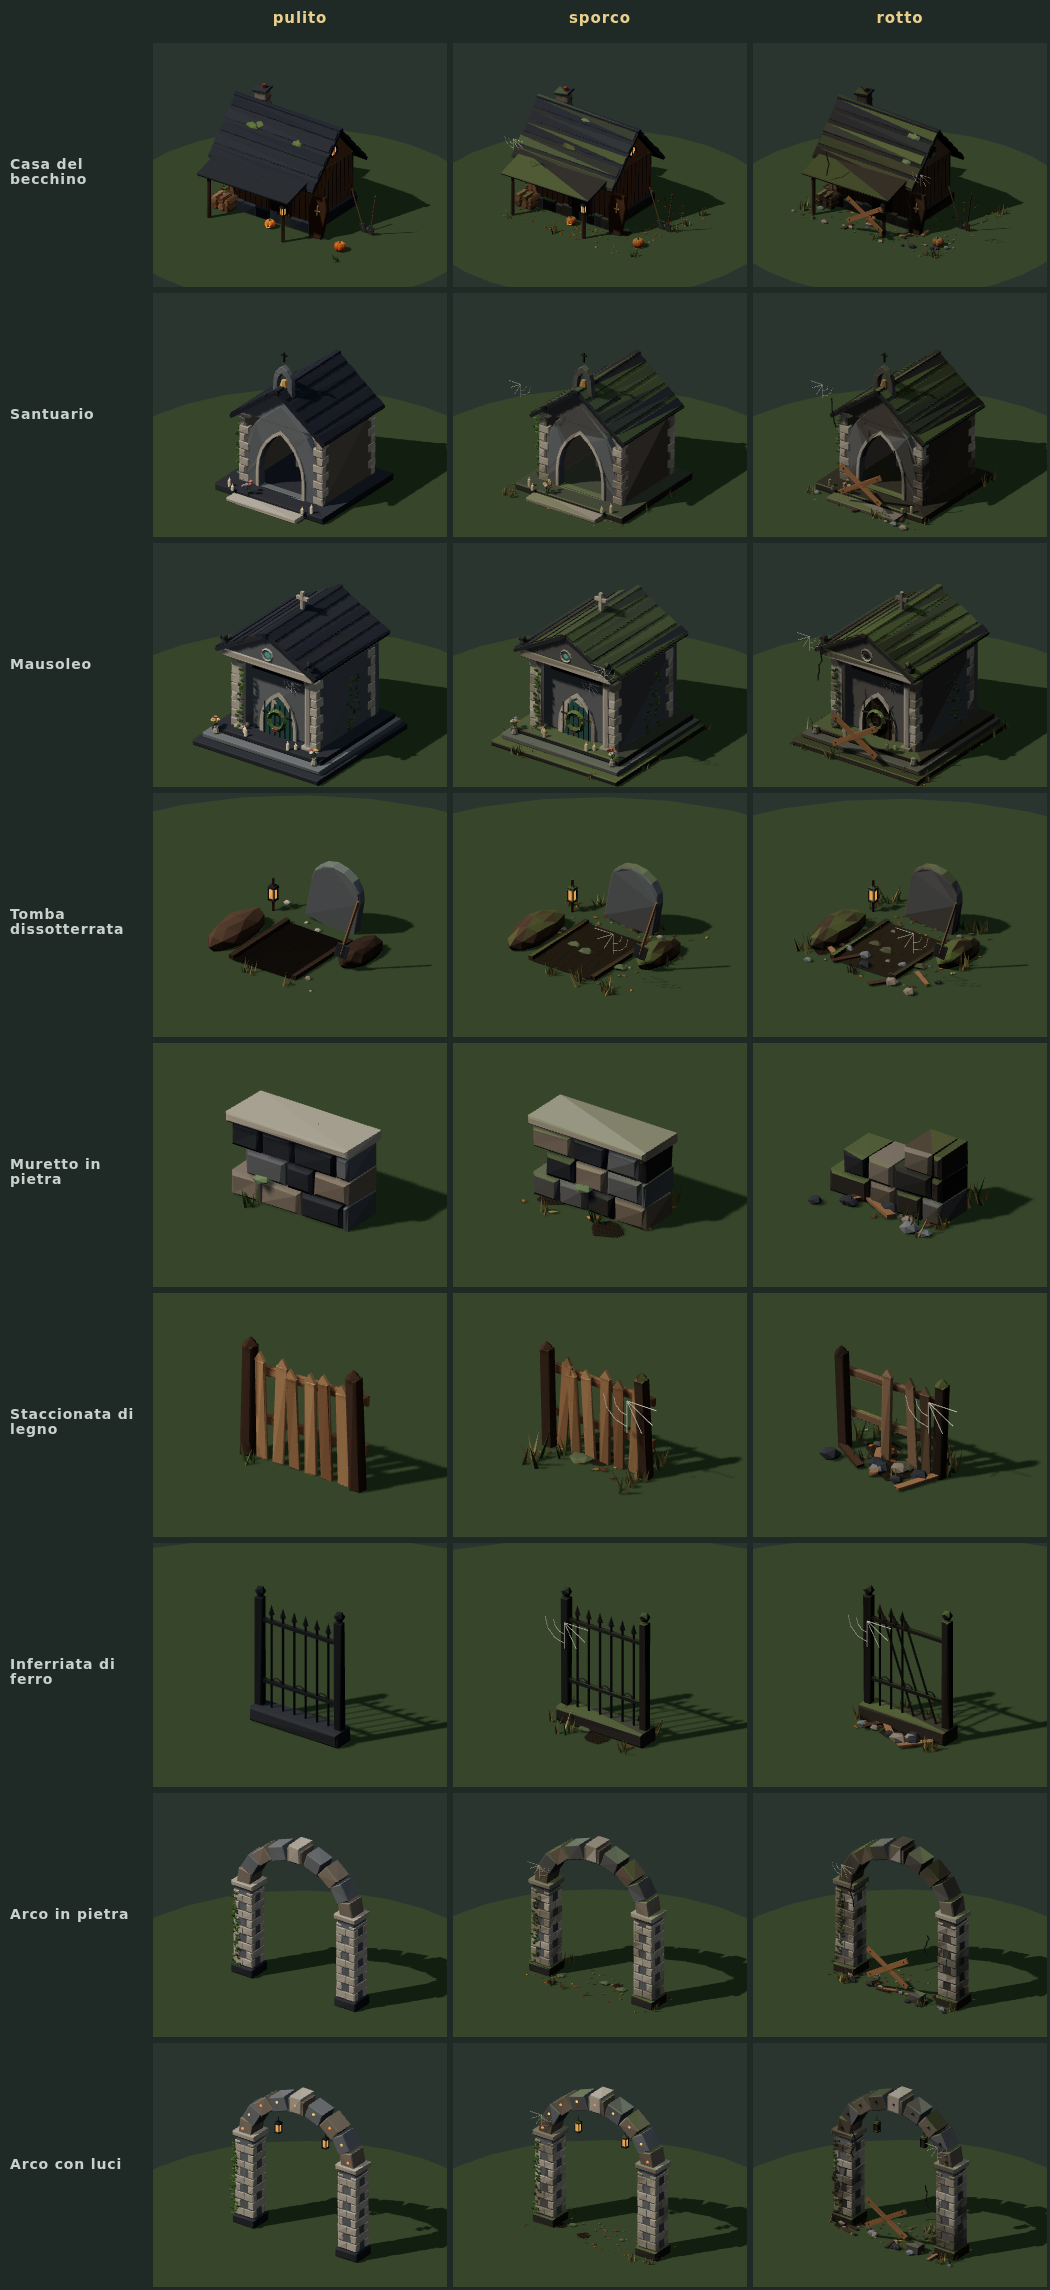
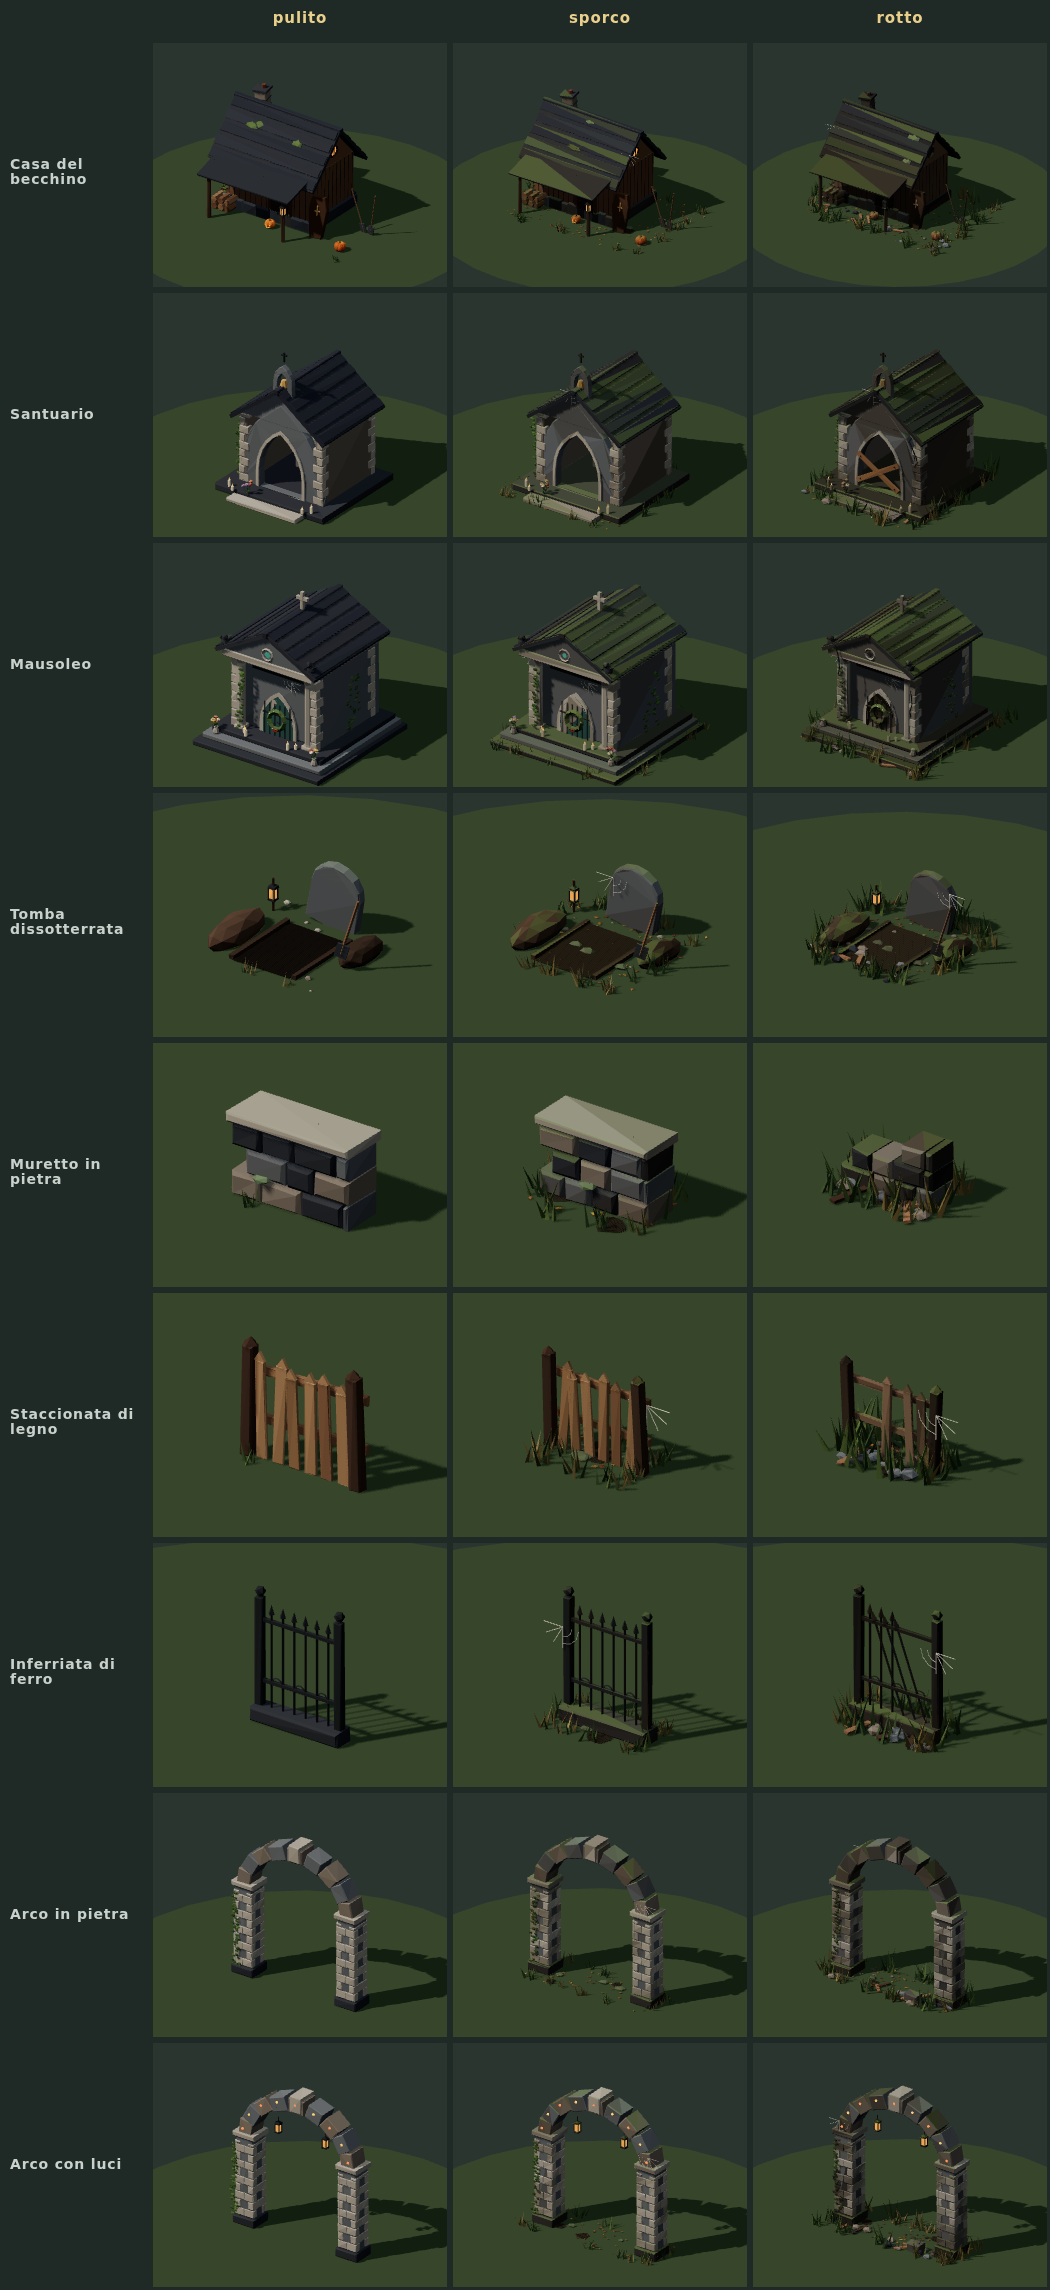
Degrado: ragnatele, crepe e assi agganciate alla superficie vera; erba alta che cresce
Un raggio dal davanti trova il muro: la ragnatela va nell'angolo sotto una
sporgenza (gronda, tenda) o sullo spigolo, le crepe sul muro, le assi a
croce solo se i due lati sono sullo stesso piano (altrimenti niente).
Attorno agli oggetti sporchi cresce erba alta, più fitta e alta da rotti.

Claude-Session: https://claude.ai/code/session_01U6u5RojYrwYjZd8sSRU7em

diff --git a/Prototype-3d/src/render/lowpoly/weathering.ts b/Prototype-3d/src/render/lowpoly/weathering.ts
@@ -112,10 +112,48 @@ export function weathered(m: LPModel, v: PVis, fp: [number, number], category: P
     lp.push([cx + r.range(-hx, hx) * 0.8, 0.004, cz + r.range(-hz, hz) * 0.8], r.range(0, 6), -Math.PI / 2)
       .plate(irregularShape(r, 0.1 + r.next() * 0.08, 7), 0.004, '#2f2a22', { ao: 0, vary: 0.08 }).pop();
   }
+  // erba alta che cresce attorno all'oggetto trascurato (più fitta e più alta da rotto)
+  const ring = Math.round((path ? 4 : 6) + (hx + hz) * (v.broken ? 5 : 3));
+  for (let i = 0; i < ring; i++) {
+    const a = (i / ring) * Math.PI * 2 + r.range(-0.2, 0.2);
+    const k = Math.min(1 / Math.abs(Math.cos(a)), 1 / Math.abs(Math.sin(a)));
+    const out = r.range(0.85, 1.02);
+    const x = cx + Math.cos(a) * k * hx * out, z = cz + Math.sin(a) * k * hz * out;
+    grassTuft(lp, x, z, (v.broken ? r.range(2.1, 3) : r.range(1.4, 2)) * (path ? 0.7 : 1), r.chance(0.3) ? ['#6b6242', '#7d7048', '#55603a'] : undefined, v.broken ? 9 + r.int(5) : 6 + r.int(4));
+  }
+
+  // per ragnatele, crepe e assi serve la superficie vera: un raggio dal davanti (+z) trova il muro
+  const solid = m.geometries.solid;
+  const hit = solid ? new THREE.Mesh(solid, new THREE.MeshBasicMaterial({ side: THREE.DoubleSide })) : null;
+  const ray = new THREE.Raycaster();
+  const back = new THREE.Vector3(0, 0, -1);
+  const wallZ = (x: number, y: number): number | null => {
+    if (!hit) return null;
+    ray.set(new THREE.Vector3(x, y, box.max.z + 1), back);
+    const h = ray.intersectObject(hit, false)[0];
+    return h ? h.point.z : null;
+  };
   const tall = size.y > 0.75 && !path;
-  const front = box.max.z + 0.005;
-  // ragnatela in un angolo in alto sul davanti
-  if (tall && size.x > 0.8) cobweb(lp, box.min.x + size.x * (r.chance(0.5) ? 0.12 : 0.88), box.min.y + size.y * 0.78, front - Math.min(0.1, size.z * 0.2), Math.min(0.28, size.x * 0.3), r.chance(0.5));
+  if (tall && size.x > 0.6) {
+    // ragnatela nell'angolo tra il muro e la sporgenza sopra (gronda, tenda), o sullo spigolo del muro
+    let web: { x: number; y: number; z: number; flip: boolean } | null = null;
+    for (let fy = 0.82; fy >= 0.45 && !web; fy -= 0.06) {
+      for (let fx = 0.12; fx <= 0.88 && !web; fx += 0.08) {
+        const x = box.min.x + size.x * fx, y = box.min.y + size.y * fy;
+        const z = wallZ(x, y), above = wallZ(x, y + 0.12);
+        if (z !== null && above !== null && above > z + 0.1) web = { x, y: y + 0.08, z: z + 0.01, flip: fx > 0.5 };
+      }
+    }
+    if (!web) {
+      const sx = r.chance(0.5) ? -1 : 1, y = box.min.y + size.y * 0.7;
+      for (let k = 0; k < 20 && !web; k++) {
+        const x = cx + sx * (size.x / 2) * (1 - k / 20);
+        const z = wallZ(x, y);
+        if (z !== null) web = { x, y, z: z + 0.01, flip: sx > 0 };
+      }
+    }
+    if (web) cobweb(lp, web.x, web.y, web.z, Math.min(0.26, size.x * 0.22), web.flip);
+  }
   if (v.broken) {
     // macerie: sassi, schegge e assi spezzate davanti
     for (let i = 0; i < 6 + Math.round(hx * 4); i++) {
@@ -127,16 +165,25 @@ export function weathered(m: LPModel, v: PVis, fp: [number, number], category: P
         .box(0, 0, 0, 0.06, 0.025, 0.2 + r.next() * 0.25, r.pick([LPC.wood, LPC.woodDark]), { vary: 0.1 }).pop();
     }
     if (tall && category === 'structure' && size.y > 1.2 && !NO_BOARDS.has(v.type)) {
-      // crepe e due assi inchiodate a croce sul davanti, all'altezza dell'ingresso
-      const zf = front - 0.04;
-      crack(lp, cx - size.x * 0.28, box.min.y + size.y * 0.72, zf, Math.min(0.6, size.y * 0.3));
-      crack(lp, cx + size.x * 0.3, box.min.y + size.y * 0.5, zf, Math.min(0.45, size.y * 0.22));
+      // crepe sul muro vero
+      for (const [fx, fy, len] of [[-0.28, 0.72, 0.3], [0.3, 0.5, 0.22]] as const) {
+        const x = cx + size.x * fx, y = box.min.y + size.y * fy, z = wallZ(x, y);
+        if (z !== null) crack(lp, x, y, z + 0.008, Math.min(0.6, size.y * len));
+      }
+      // due assi a croce inchiodate ai due lati (stipiti, pilastri): solo se entrambi i lati sono sullo stesso piano
       const w = Math.min(size.x * 0.55, 1.1), y = box.min.y + Math.min(size.y * 0.36, 0.6);
-      for (const s of [-1, 1]) {
-        lp.push([cx, y, zf + 0.03], 0, 0, s * 0.55).box(0, -0.05, 0, w, 0.1, 0.03, '#7a5c42', { vary: 0.12, ao: 0 })
-          .box(-w * 0.42, -0.012, 0.02, 0.025, 0.025, 0.01, LPC.iron, { jitter: 0 }).box(w * 0.42, -0.012, 0.02, 0.025, 0.025, 0.01, LPC.iron, { jitter: 0 }).pop();
+      const zl = wallZ(cx - w * 0.45, y - 0.12), zr = wallZ(cx + w * 0.45, y + 0.12), zc = wallZ(cx, y);
+      if (zl !== null && zr !== null && Math.abs(zl - zr) < 0.12) {
+        const zf = Math.max(zl, zr) + 0.03;
+        if (zc === null || zc < zf + 0.03) {
+          for (const s of [-1, 1]) {
+            lp.push([cx, y, zf], 0, 0, s * 0.55).box(0, -0.05, 0, w, 0.1, 0.03, '#7a5c42', { vary: 0.12, ao: 0 })
+              .box(-w * 0.42, -0.012, 0.02, 0.025, 0.025, 0.01, LPC.iron, { jitter: 0 }).box(w * 0.42, -0.012, 0.02, 0.025, 0.025, 0.01, LPC.iron, { jitter: 0 }).pop();
+          }
+        }
       }
     }
   }
+  hit?.material.dispose();
   return merge(m, lp.build());
 }
